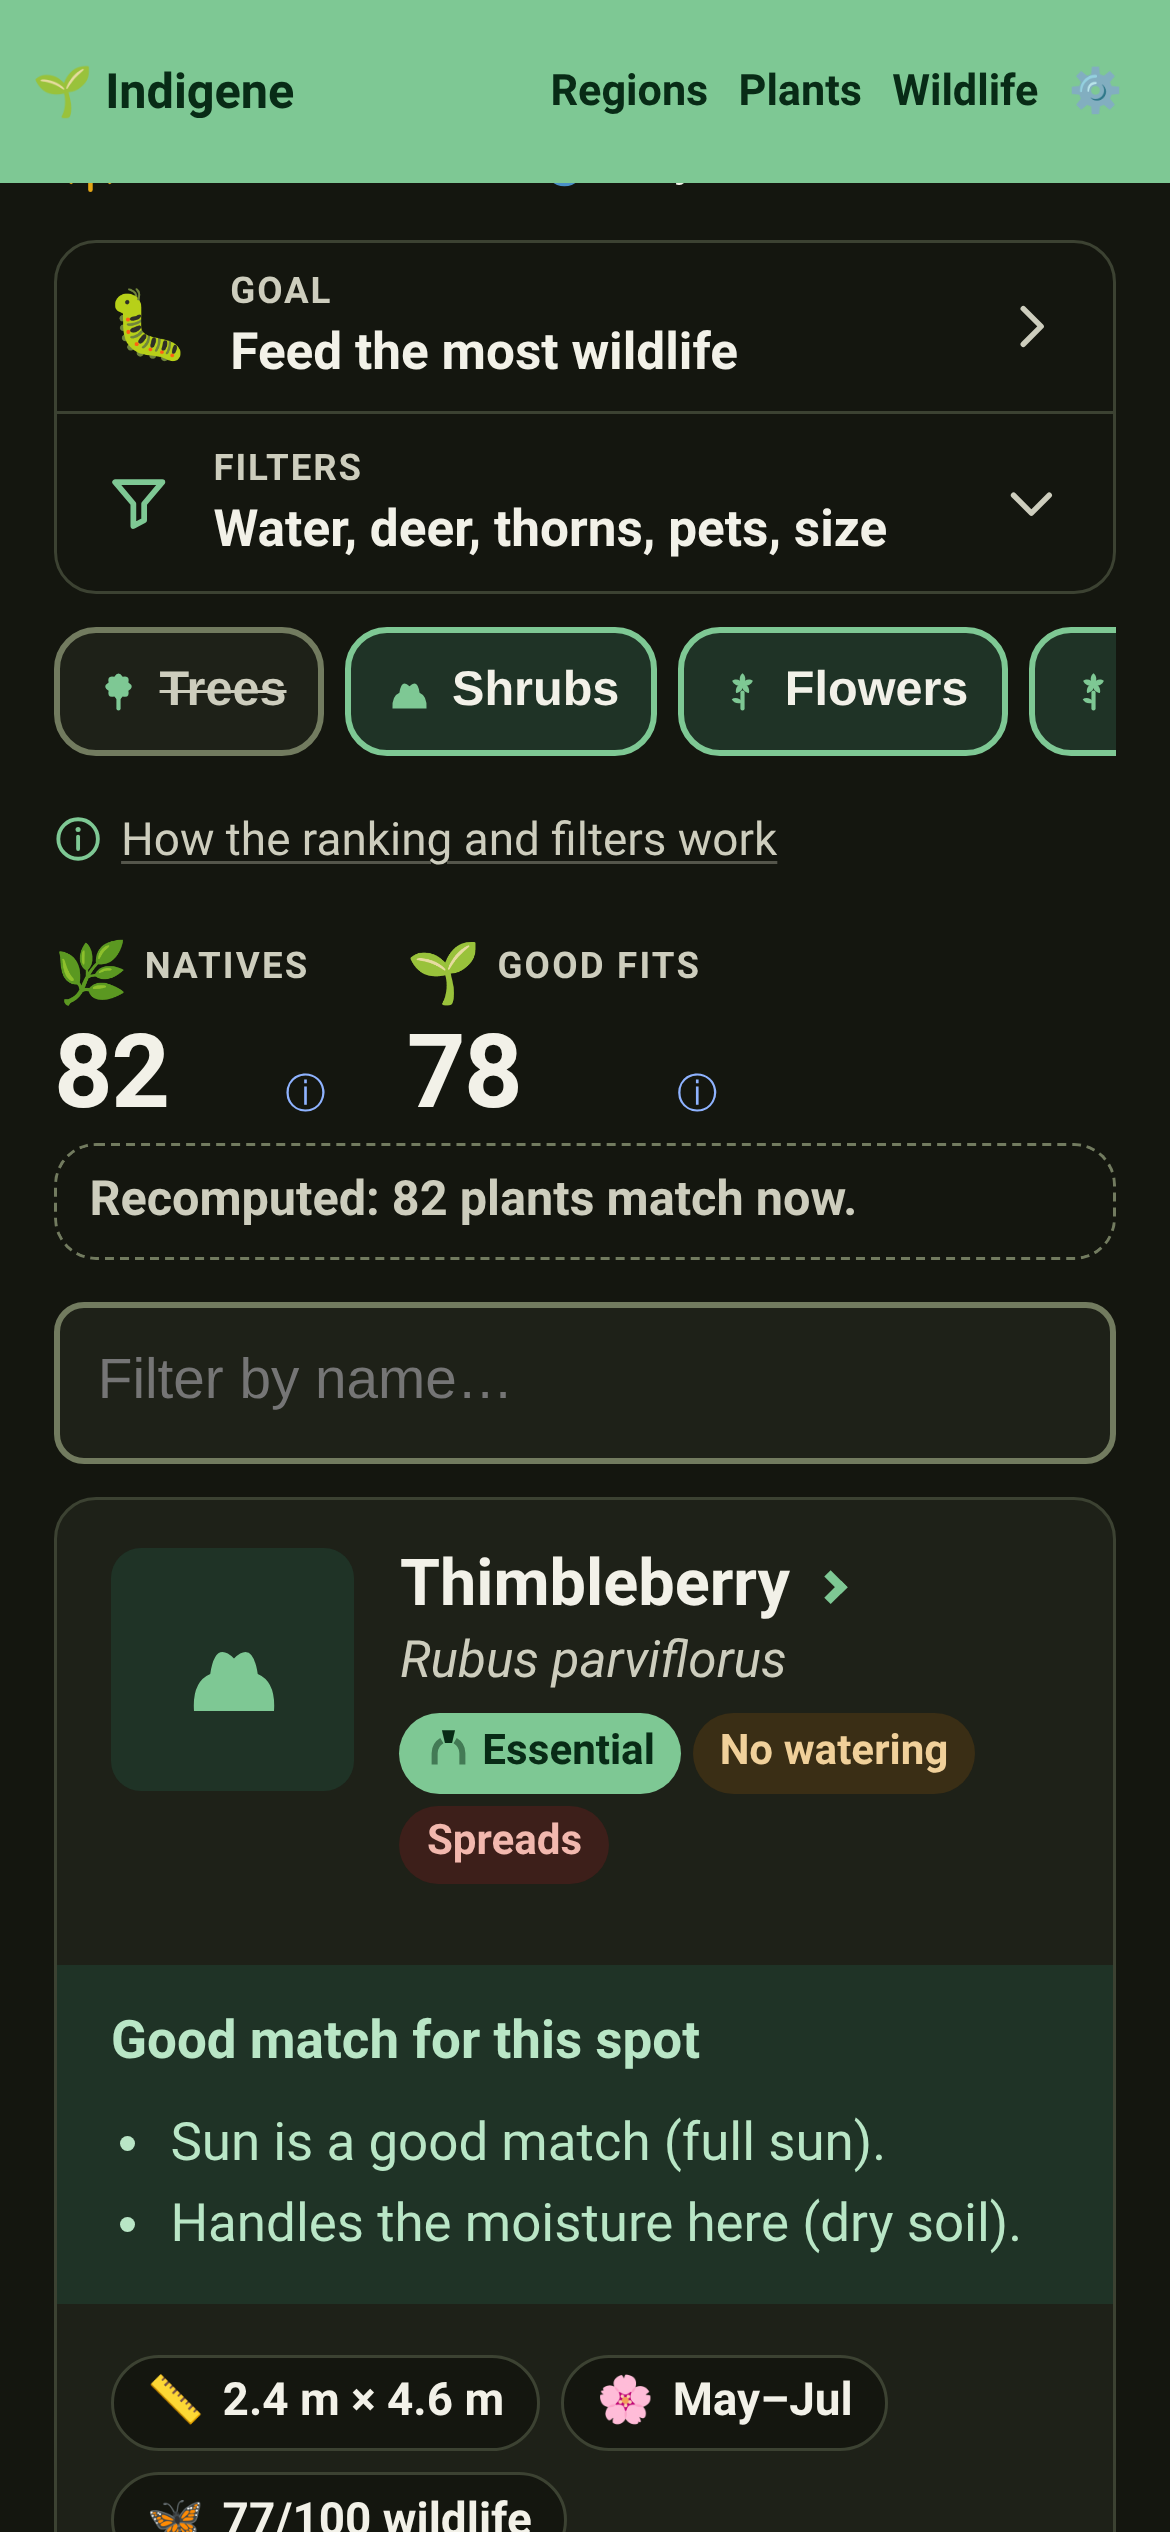
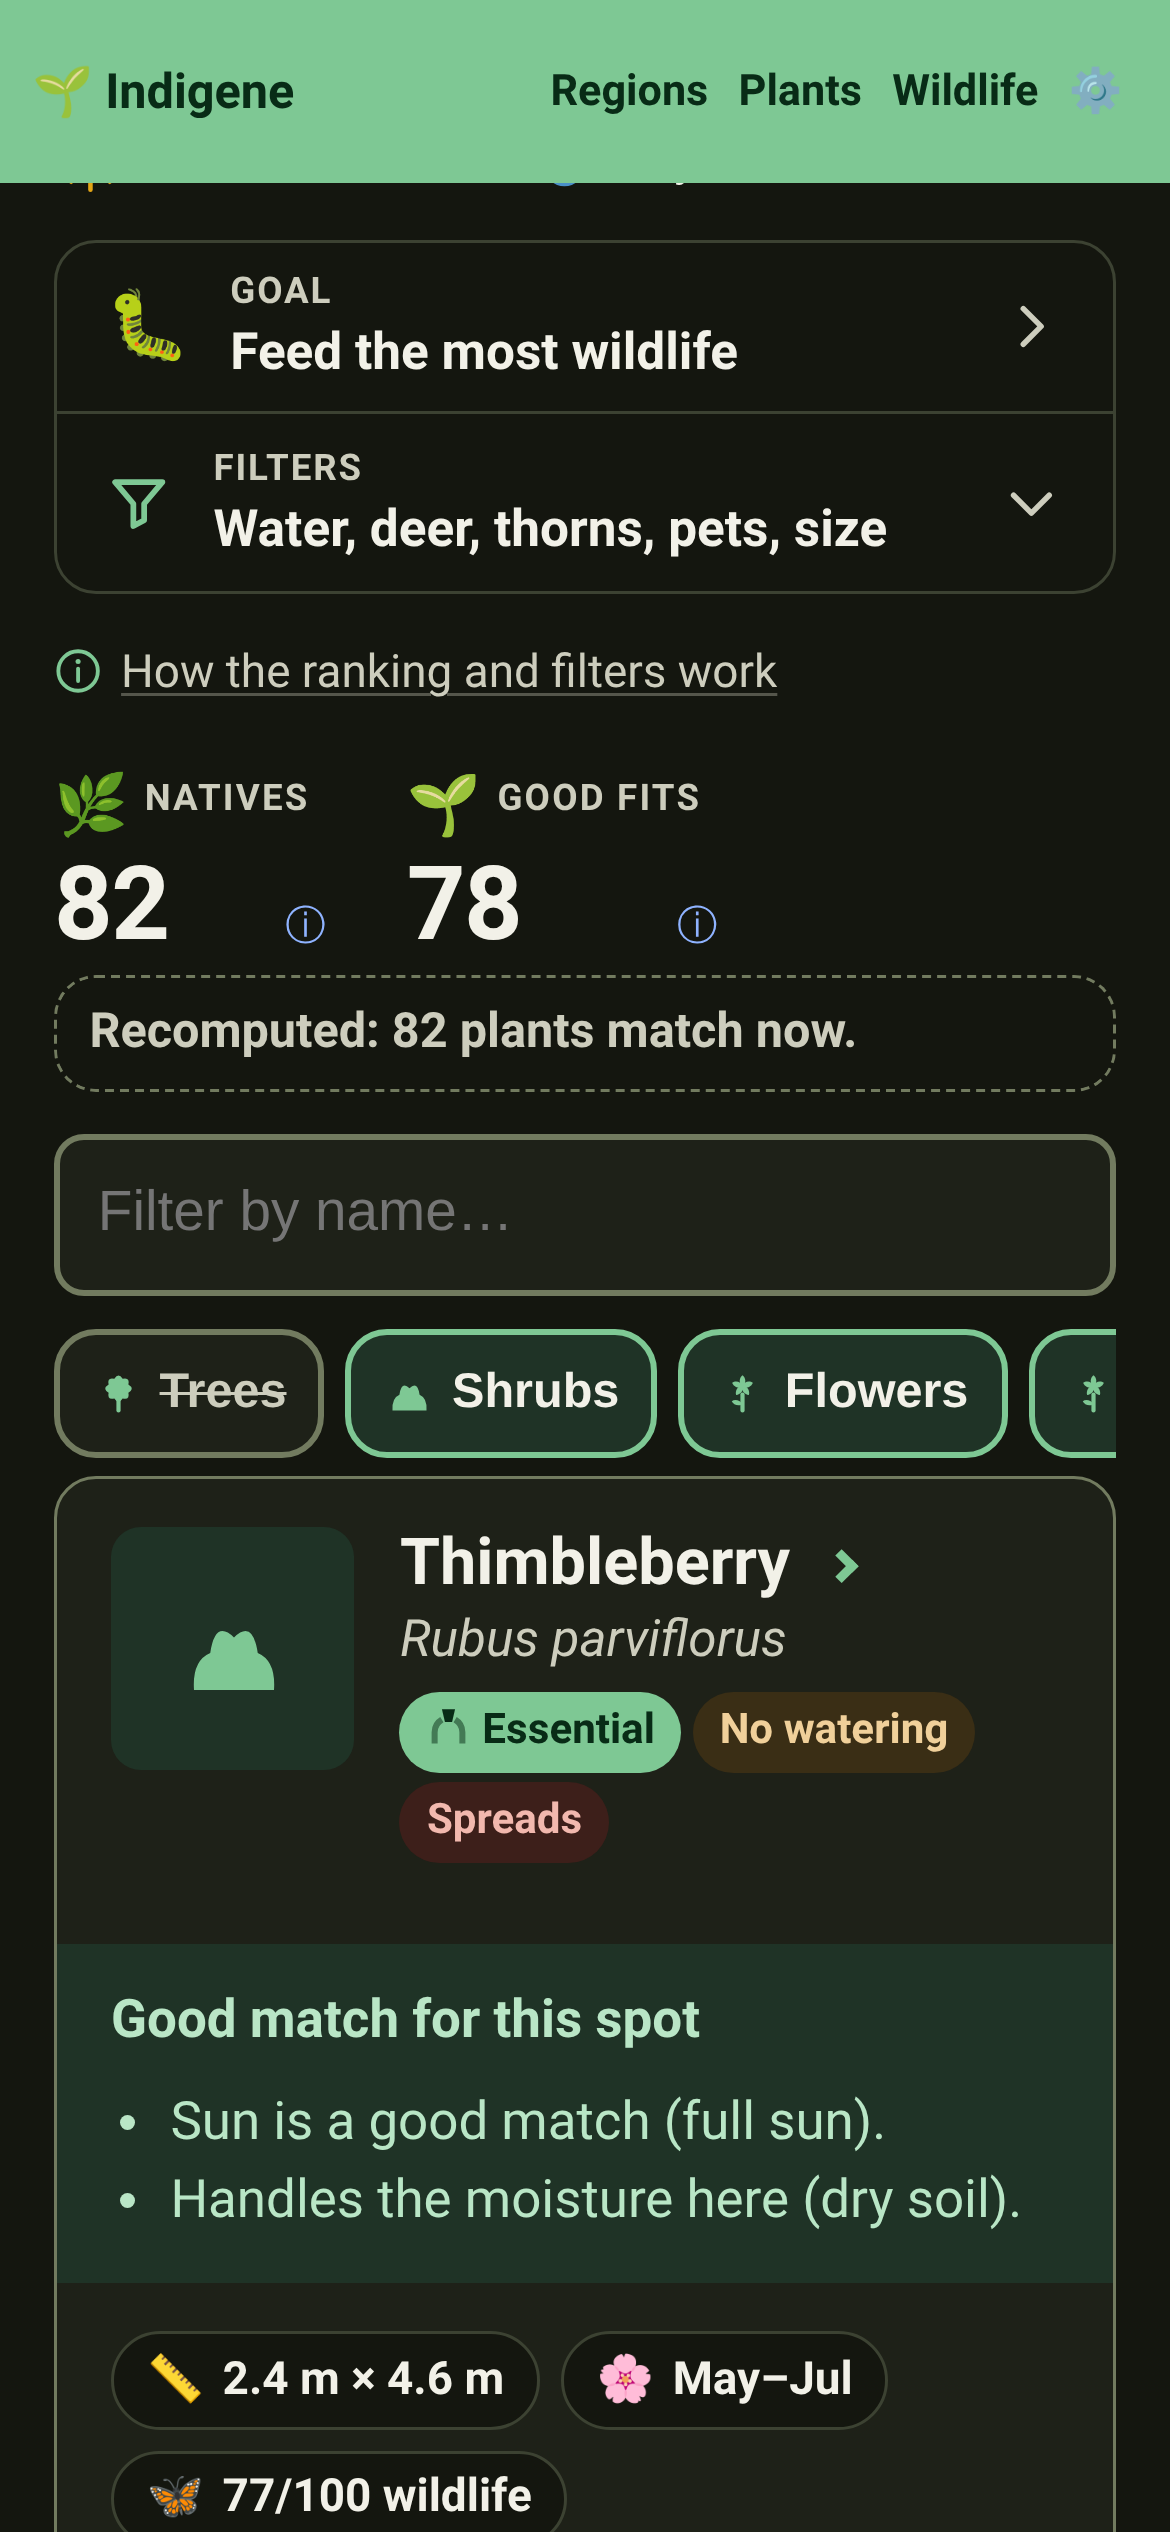
Type chips under the name search; tests for old backups
- The chips now sit right under "Filter by name…": both narrow the list
  below them.
- backup.test.ts: a backup saved before the chips (no hiddenForms) reads
  back as showing every type, and unknown types in a saved list are
  dropped rather than breaking the restore.

Claude-Session: https://claude.ai/code/session_01DehPZhpNFEJZrSzDHiZrD6

diff --git a/app/src/steps/results.ts b/app/src/steps/results.ts
@@ -300,7 +300,8 @@ export async function renderResults(main: HTMLElement): Promise<(() => void) | v
     quietLink("info", "#/traits", t("results.filtersMeaning"), "margin:0.4rem 0 0.2rem"),
   ]);
 
-  // --- Plant types, on or off. Out in the open rather than in the panel
+  // --- Plant types, on or off, right under the name search: both narrow the
+  // list below them. Out in the open rather than in the panel
   // above: "no trees, I have no room" is the first thing many readers want
   // and the panel is easy to miss (Show HN, #255). On means shown; the list
   // keeps at least one type on, because an empty list answers nothing.
@@ -348,11 +349,11 @@ export async function renderResults(main: HTMLElement): Promise<(() => void) | v
         ? [" ", ecoregionChip(store.draft.site.ecoregionInfo, guideHref("regions", "zones"))] : [])]),
     conditions,
     el("div", { class: "result-controls" }, [rankedFor, filters]),
-    ...(typeChips ? [typeChips] : []),
     guideLink("ranking", t("guide.ranking"), undefined, "margin:0.5rem 0 0"),
     summaryEl,
     rc.node,
     nameFilter.node,
+    ...(typeChips ? [typeChips] : []),
     listEl,
     // After the plants, like every other step in the flow puts its buttons
     // after the thing the step is for. These used to sit above the list, which

diff --git a/app/src/lib/backup.test.ts b/app/src/lib/backup.test.ts
@@ -149,6 +149,21 @@ describe("parseSpotsFile", () => {
     expect(read.file.preferences).toEqual(preferences);
   });
 
+  it("reads filters saved before the plant-type chips as showing every type", () => {
+    const { hiddenForms: _h, ...olderFilters } = preferences.filters;
+    const text = JSON.stringify({ ...file([spot], [planting]), preferences: { ...preferences, filters: olderFilters } });
+    const read = parseSpotsFile(text);
+    expect(read.ok).toBe(true);
+    if (!read.ok) return;
+    expect(read.file.preferences.filters).toEqual({ ...olderFilters, hiddenForms: [] });
+  });
+
+  it("drops plant types it doesn't know from saved filters", () => {
+    const filters = { ...preferences.filters, hiddenForms: ["tree", "bush", 7] };
+    const read = parseSpotsFile(JSON.stringify({ ...file([spot], [planting]), preferences: { ...preferences, filters } }));
+    expect(read.ok && read.file.preferences.filters?.hiddenForms).toEqual(["tree"]);
+  });
+
   it("still reads a version-1 file, with nothing extra", () => {
     const { lookups: _l, sightings: _s, preferences: _p, ...v1 } = { ...file([spot], [planting]), version: 1 };
     const read = parseSpotsFile(JSON.stringify(v1));
